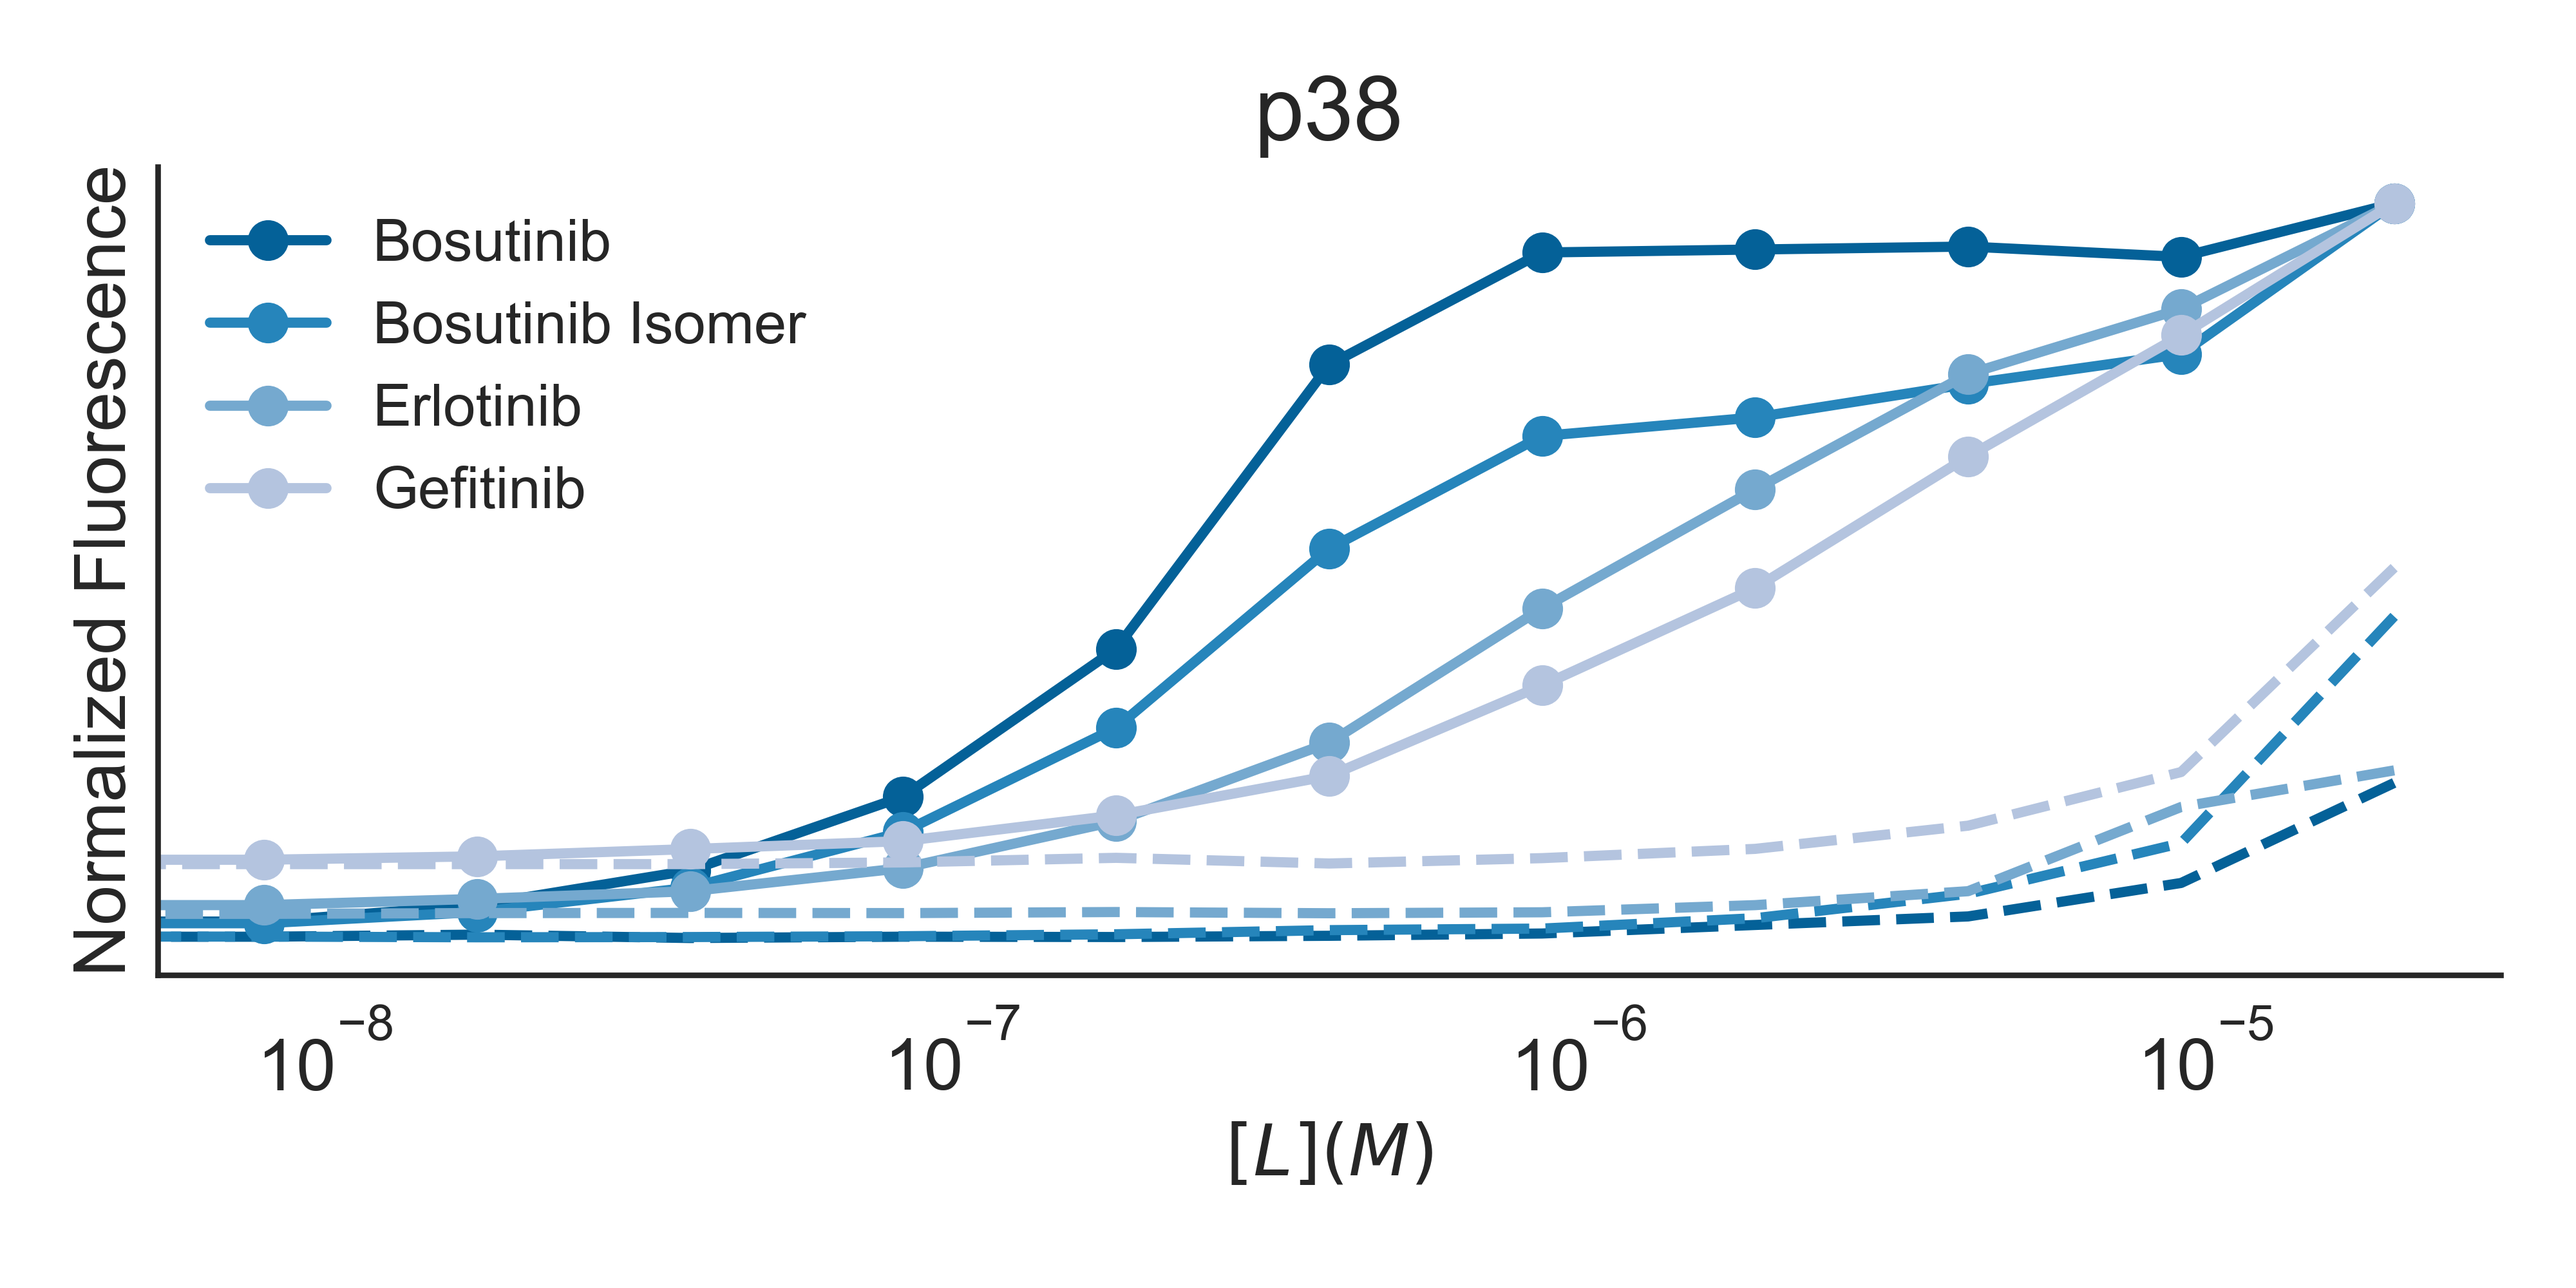
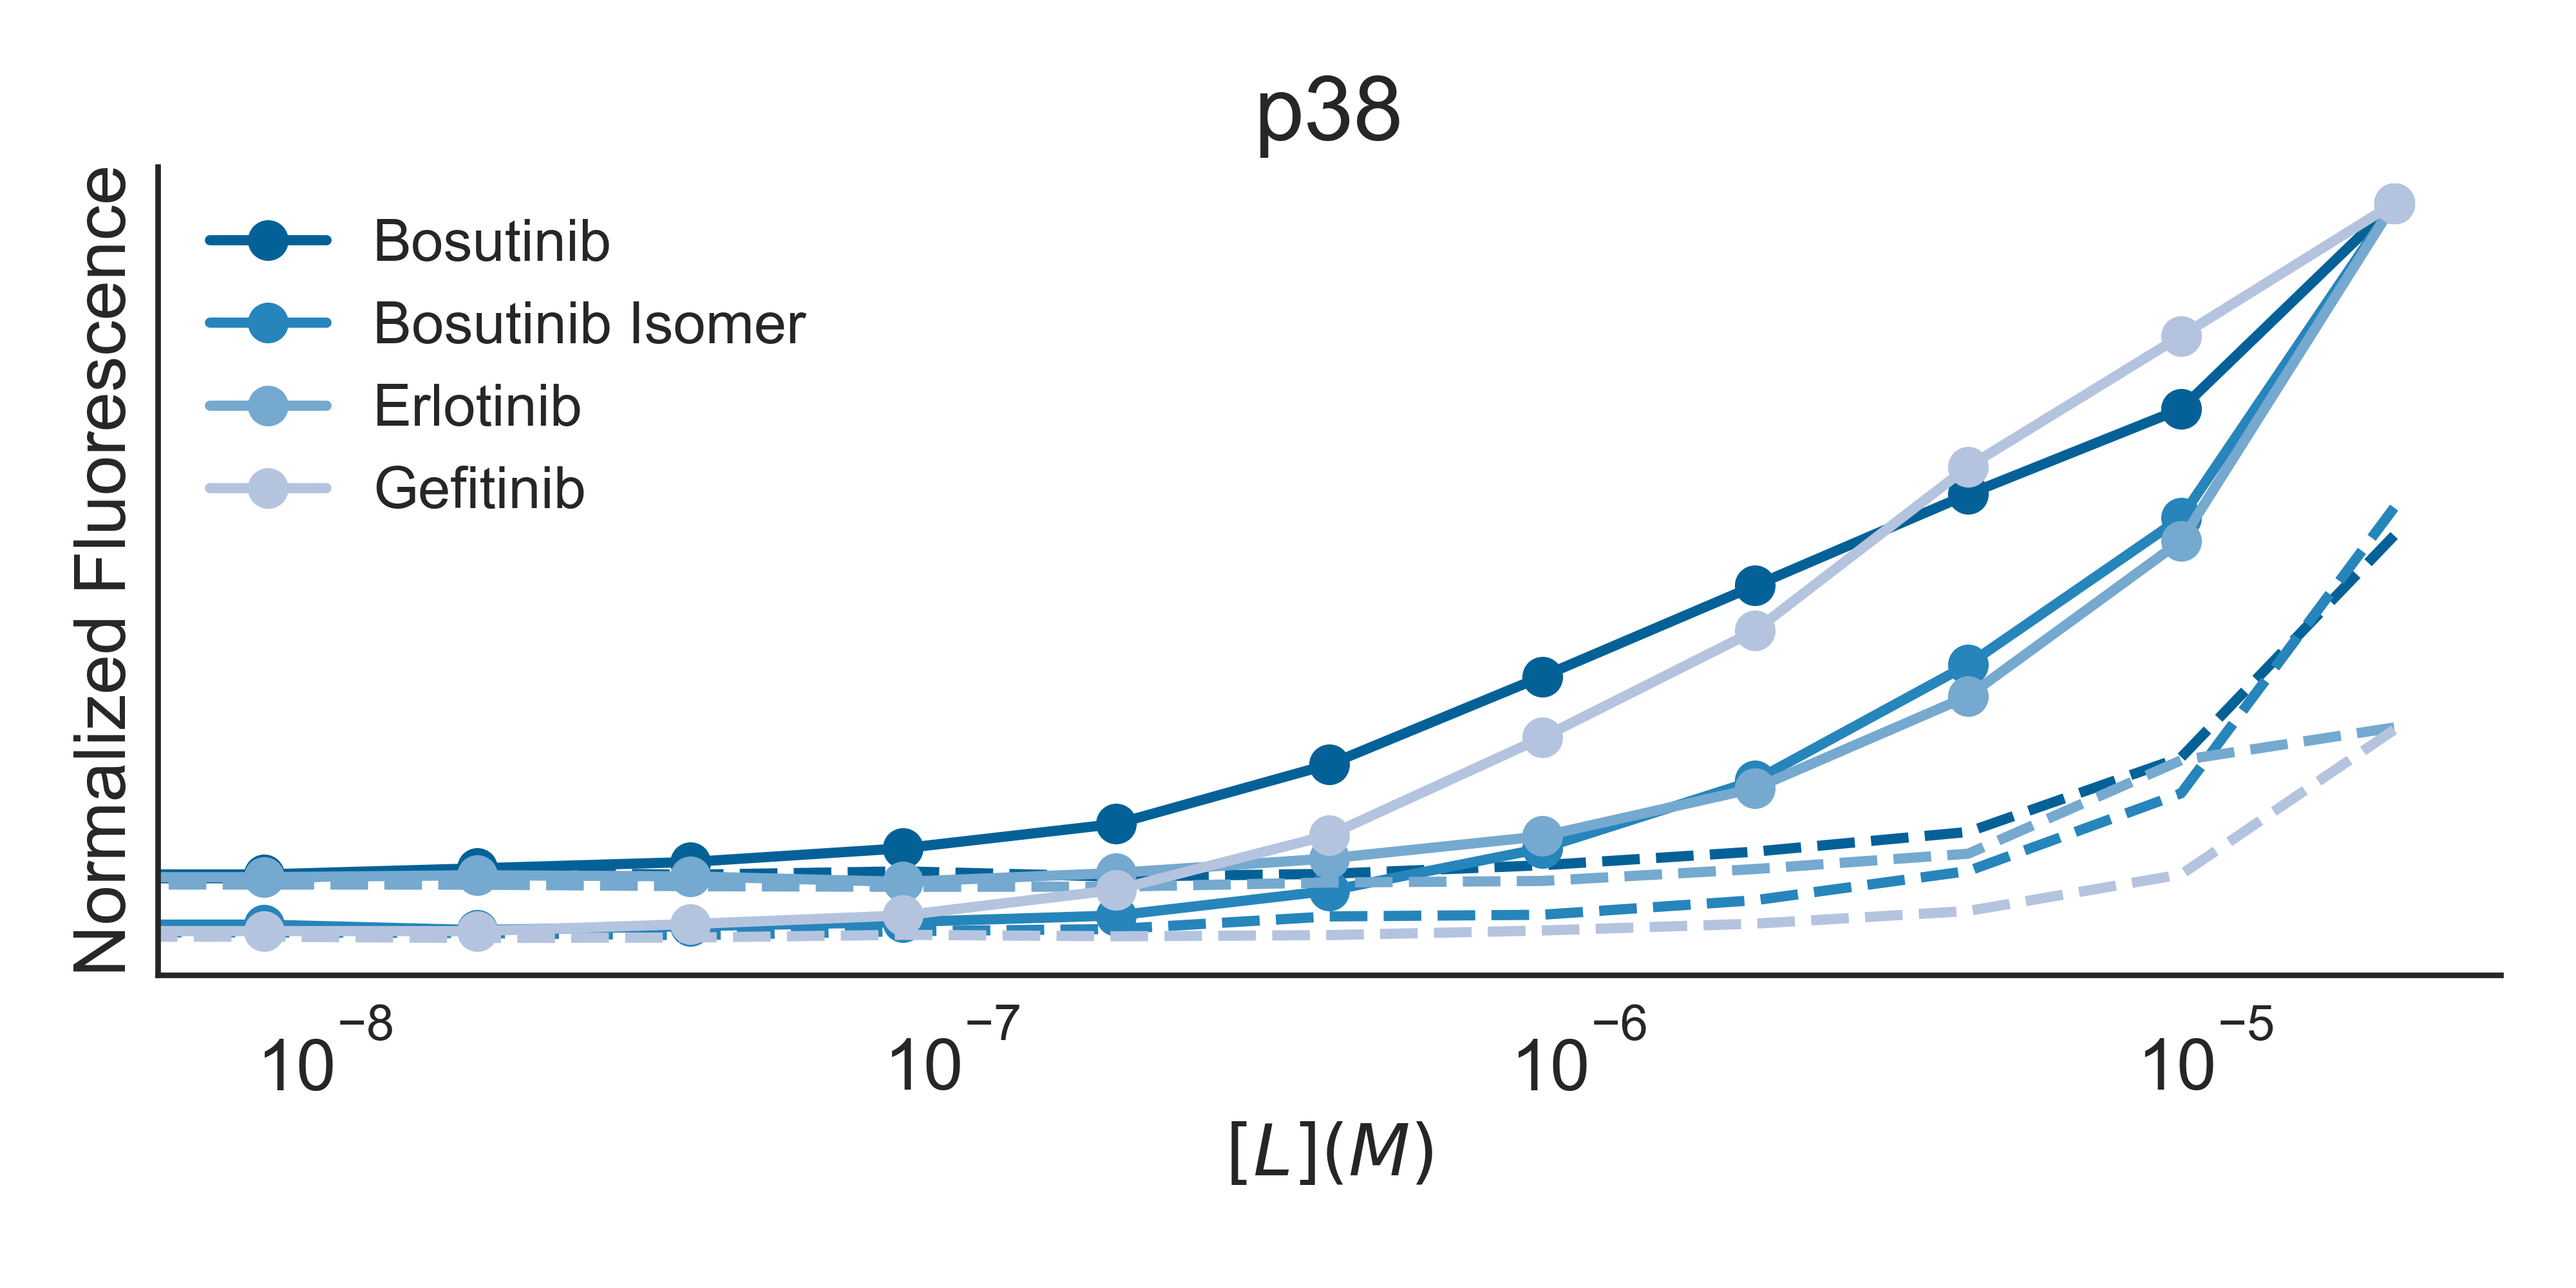
small updates

diff --git a/figures/Figure4/generate_Abl_curve.py b/figures/Figure4/generate_Abl_curve.py
@@ -34,14 +34,14 @@ cols = sns.color_palette('YlOrBr_r', 5)
 
 fig, ax = plt.subplots(figsize=(8,4))
 
-plt.semilogx(inputs['Lstated'],complex_fluorescence['Src-Bosutinib-AB']/complex_fluorescence['Src-Bosutinib-AB'].max(),marker='o',color=cols[0],label='Bosutinib')
-plt.semilogx(inputs['Lstated'],ligand_fluorescence['Src-Bosutinib-AB']/complex_fluorescence['Src-Bosutinib-AB'].max(),linestyle='--',color=cols[0])
-plt.semilogx(inputs['Lstated'],complex_fluorescence['Src-Bosutinib Isomer-CD']/complex_fluorescence['Src-Bosutinib Isomer-CD'].max(),marker='o',color=cols[1],label='Bosutinib Isomer')
-plt.semilogx(inputs['Lstated'],ligand_fluorescence['Src-Bosutinib Isomer-CD']/complex_fluorescence['Src-Bosutinib Isomer-CD'].max(),linestyle='--',color=cols[1])
-plt.semilogx(inputs['Lstated'],complex_fluorescence['Src-Erlotinib-EF']/complex_fluorescence['Src-Erlotinib-EF'].max(),marker='o',color=cols[2],label='Erlotinib')
-plt.semilogx(inputs['Lstated'],ligand_fluorescence['Src-Erlotinib-EF']/complex_fluorescence['Src-Erlotinib-EF'].max(),linestyle='--',color=cols[2])
-plt.semilogx(inputs['Lstated'],complex_fluorescence['Src-Gefitinib-GH']/complex_fluorescence['Src-Gefitinib-GH'].max(),marker='o',color=cols[3],label='Gefitinib')
-plt.semilogx(inputs['Lstated'],ligand_fluorescence['Src-Gefitinib-GH']/complex_fluorescence['Src-Gefitinib-GH'].max(),linestyle='--',color=cols[3])
+plt.semilogx(inputs['Lstated'],complex_fluorescence['Abl-Bosutinib-AB']/complex_fluorescence['Abl-Bosutinib-AB'].max(),marker='o',color=cols[0],label='Bosutinib')
+plt.semilogx(inputs['Lstated'],ligand_fluorescence['Abl-Bosutinib-AB']/complex_fluorescence['Abl-Bosutinib-AB'].max(),linestyle='--',color=cols[0])
+plt.semilogx(inputs['Lstated'],complex_fluorescence['Abl-Bosutinib Isomer-CD']/complex_fluorescence['Abl-Bosutinib Isomer-CD'].max(),marker='o',color=cols[1],label='Bosutinib Isomer')
+plt.semilogx(inputs['Lstated'],ligand_fluorescence['Abl-Bosutinib Isomer-CD']/complex_fluorescence['Abl-Bosutinib Isomer-CD'].max(),linestyle='--',color=cols[1])
+plt.semilogx(inputs['Lstated'],complex_fluorescence['Abl-Erlotinib-EF']/complex_fluorescence['Abl-Erlotinib-EF'].max(),marker='o',color=cols[2],label='Erlotinib')
+plt.semilogx(inputs['Lstated'],ligand_fluorescence['Abl-Erlotinib-EF']/complex_fluorescence['Abl-Erlotinib-EF'].max(),linestyle='--',color=cols[2])
+plt.semilogx(inputs['Lstated'],complex_fluorescence['Abl-Gefitinib-GH']/complex_fluorescence['Abl-Gefitinib-GH'].max(),marker='o',color=cols[3],label='Gefitinib')
+plt.semilogx(inputs['Lstated'],ligand_fluorescence['Abl-Gefitinib-GH']/complex_fluorescence['Abl-Gefitinib-GH'].max(),linestyle='--',color=cols[3])
 
 ax.spines['top'].set_visible(False)
 ax.spines['right'].set_visible(False)

diff --git a/figures/Figure4/generate_p38_curve.py b/figures/Figure4/generate_p38_curve.py
@@ -34,14 +34,14 @@ cols = sns.color_palette('PuBu_r', 5)
 
 fig, ax = plt.subplots(figsize=(8,4))
 
-plt.semilogx(inputs['Lstated'],complex_fluorescence['Src-Bosutinib-AB']/complex_fluorescence['Src-Bosutinib-AB'].max(),marker='o',color=cols[0],label='Bosutinib')
-plt.semilogx(inputs['Lstated'],ligand_fluorescence['Src-Bosutinib-AB']/complex_fluorescence['Src-Bosutinib-AB'].max(),linestyle='--',color=cols[0])
-plt.semilogx(inputs['Lstated'],complex_fluorescence['Src-Bosutinib Isomer-CD']/complex_fluorescence['Src-Bosutinib Isomer-CD'].max(),marker='o',color=cols[1],label='Bosutinib Isomer')
-plt.semilogx(inputs['Lstated'],ligand_fluorescence['Src-Bosutinib Isomer-CD']/complex_fluorescence['Src-Bosutinib Isomer-CD'].max(),linestyle='--',color=cols[1])
-plt.semilogx(inputs['Lstated'],complex_fluorescence['Src-Erlotinib-EF']/complex_fluorescence['Src-Erlotinib-EF'].max(),marker='o',color=cols[2],label='Erlotinib')
-plt.semilogx(inputs['Lstated'],ligand_fluorescence['Src-Erlotinib-EF']/complex_fluorescence['Src-Erlotinib-EF'].max(),linestyle='--',color=cols[2])
-plt.semilogx(inputs['Lstated'],complex_fluorescence['Src-Gefitinib-GH']/complex_fluorescence['Src-Gefitinib-GH'].max(),marker='o',color=cols[3],label='Gefitinib')
-plt.semilogx(inputs['Lstated'],ligand_fluorescence['Src-Gefitinib-GH']/complex_fluorescence['Src-Gefitinib-GH'].max(),linestyle='--',color=cols[3])
+plt.semilogx(inputs['Lstated'],complex_fluorescence['p38-Bosutinib-AB']/complex_fluorescence['p38-Bosutinib-AB'].max(),marker='o',color=cols[0],label='Bosutinib')
+plt.semilogx(inputs['Lstated'],ligand_fluorescence['p38-Bosutinib-AB']/complex_fluorescence['p38-Bosutinib-AB'].max(),linestyle='--',color=cols[0])
+plt.semilogx(inputs['Lstated'],complex_fluorescence['p38-Bosutinib Isomer-CD']/complex_fluorescence['p38-Bosutinib Isomer-CD'].max(),marker='o',color=cols[1],label='Bosutinib Isomer')
+plt.semilogx(inputs['Lstated'],ligand_fluorescence['p38-Bosutinib Isomer-CD']/complex_fluorescence['p38-Bosutinib Isomer-CD'].max(),linestyle='--',color=cols[1])
+plt.semilogx(inputs['Lstated'],complex_fluorescence['p38-Erlotinib-EF']/complex_fluorescence['p38-Erlotinib-EF'].max(),marker='o',color=cols[2],label='Erlotinib')
+plt.semilogx(inputs['Lstated'],ligand_fluorescence['p38-Erlotinib-EF']/complex_fluorescence['p38-Erlotinib-EF'].max(),linestyle='--',color=cols[2])
+plt.semilogx(inputs['Lstated'],complex_fluorescence['p38-Gefitinib-GH']/complex_fluorescence['p38-Gefitinib-GH'].max(),marker='o',color=cols[3],label='Gefitinib')
+plt.semilogx(inputs['Lstated'],ligand_fluorescence['p38-Gefitinib-GH']/complex_fluorescence['p38-Gefitinib-GH'].max(),linestyle='--',color=cols[3])
 
 ax.spines['top'].set_visible(False)
 ax.spines['right'].set_visible(False)
